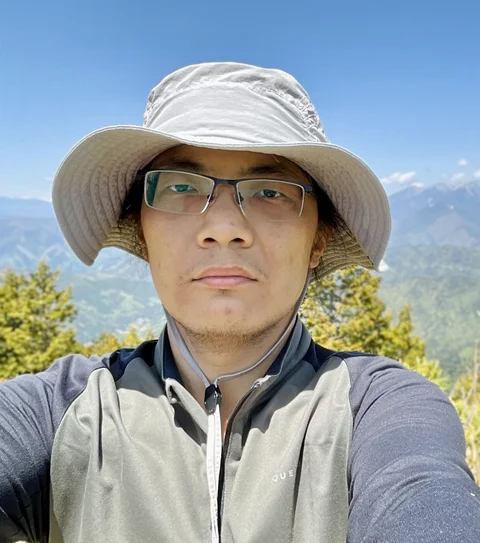
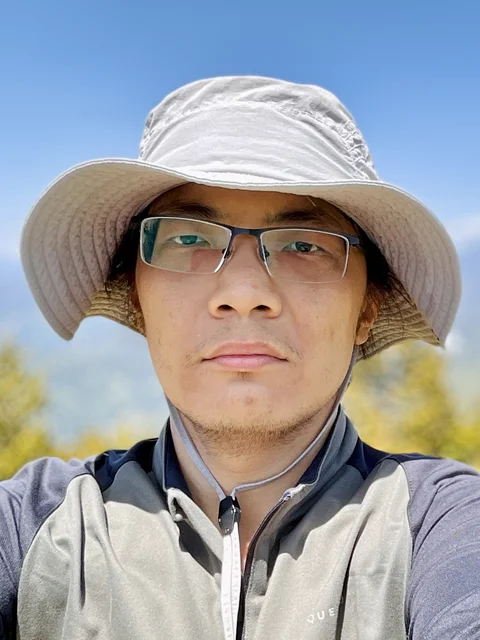
update profile photos

diff --git a/cv/index.html b/cv/index.html
@@ -590,11 +590,11 @@
         <ul class="subitems">
           
             <li>
-              <span class="subitem">𝖲𝖳𝖮𝖢 (2026x2, 2025, 2024, 2023), 𝖥𝖮𝖢𝖲 (2025, 2024, 2023, 2020), 𝖢𝖢𝖢(2024), 𝖲𝖮𝖣𝖠 (2025, 2024, 2022), 𝖨𝖳𝖢𝖲 (2026, 2024), 𝖨𝖢𝖠𝖫𝖯 (2024x2), 𝖤𝖲𝖠 (2024), 𝖢𝖮𝖫𝖳 (2025), 𝖲𝖳𝖠𝖢𝖲 (2026)</span>
+              <span class="subitem">𝖲𝖳𝖮𝖢 (2026x2, 2025, 2024, 2023), 𝖥𝖮𝖢𝖲 (2025, 2024, 2023, 2020), 𝖢𝖢𝖢(2026, 2024), 𝖲𝖮𝖣𝖠 (2025, 2024, 2022), 𝖨𝖳𝖢𝖲 (2026, 2024), 𝖨𝖢𝖠𝖫𝖯 (2026x2, 2024x2), 𝖤𝖲𝖠 (2024), 𝖢𝖮𝖫𝖳 (2025), 𝖲𝖳𝖠𝖢𝖲 (2026)</span>
             </li>
           
             <li>
-              <span class="subitem">𝖰𝖨𝖯 (2025x4, 2024x3, 2023, 2022x2, 2021), 𝖳𝖰𝖢 (2025x2, 2024, 2022, 2020x2), 𝖠𝖰𝖨𝖲 (2023).</span>
+              <span class="subitem">𝖰𝖨𝖯 (2025x4, 2024x3, 2023, 2022x2, 2021), 𝖳𝖰𝖢 (2026x2, 2025x2, 2024, 2022, 2020x2), 𝖠𝖰𝖨𝖲 (2023).</span>
             </li>
           
         </ul>
@@ -607,7 +607,7 @@
         <ul class="subitems">
           
             <li>
-              <span class="subitem">SIAM Journal on Computing x2, Nature Physics, Theory of Computing Systems, Quantum, ACM Transactions on Quantum Computing.</span>
+              <span class="subitem">SIAM Journal on Computing x3, Nature Physics, Theory of Computing Systems, Quantum x2, ACM Transactions on Quantum Computing.</span>
             </li>
           
         </ul>
@@ -692,7 +692,7 @@
 
   
   
-    Last updated: February 25, 2026.
+    Last updated: March 07, 2026.
   
 
     </div>

diff --git a/index.html b/index.html
@@ -319,7 +319,7 @@
       30vw, 95vw">
       
     
-    <img src="/assets/img/profile.jpg?f5e3f6e615ea72c639ac67d89f6102cf" class="img-fluid z-depth-1
+    <img src="/assets/img/profile.jpg?dc58a59c3282aca3f16d8bec1dd1f908" class="img-fluid z-depth-1
       rounded" width="100%" height="auto" alt="profile.jpg" loading="eager" onerror="this.onerror=null; $('.responsive-img-srcset').remove();">
   </source></picture>
 
@@ -390,7 +390,7 @@
 
   
   
-    Last updated: February 25, 2026.
+    Last updated: March 07, 2026.
   
 
     </div>

diff --git a/papers-by-pub-year/index.html b/papers-by-pub-year/index.html
@@ -1330,7 +1330,7 @@
 
   
   
-    Last updated: February 25, 2026.
+    Last updated: March 07, 2026.
   
 
     </div>

diff --git a/papers-by-release-year/index.html b/papers-by-release-year/index.html
@@ -1429,7 +1429,7 @@
 
   
   
-    Last updated: February 25, 2026.
+    Last updated: March 07, 2026.
   
 
     </div>

diff --git a/papers-by-topics/index.html b/papers-by-topics/index.html
@@ -1417,7 +1417,7 @@
 
   
   
-    Last updated: February 25, 2026.
+    Last updated: March 07, 2026.
   
 
     </div>

diff --git a/404.html b/404.html
@@ -305,7 +305,7 @@
 
   
   
-    Last updated: February 25, 2026.
+    Last updated: March 07, 2026.
   
 
     </div>

diff --git a/_pages/dropdown.html b/_pages/dropdown.html
@@ -305,7 +305,7 @@
 
   
   
-    Last updated: February 25, 2026.
+    Last updated: March 07, 2026.
   
 
     </div>

diff --git a/_pages/papers.html b/_pages/papers.html
@@ -307,7 +307,7 @@
 
   
   
-    Last updated: February 25, 2026.
+    Last updated: March 07, 2026.
   
 
     </div>

diff --git a/misc/index.html b/misc/index.html
@@ -338,7 +338,7 @@
 
   
   
-    Last updated: February 25, 2026.
+    Last updated: March 07, 2026.
   
 
     </div>

diff --git a/resources/index.html b/resources/index.html
@@ -347,7 +347,7 @@
 
   
   
-    Last updated: February 25, 2026.
+    Last updated: March 07, 2026.
   
 
     </div>

diff --git a/talks/index.html b/talks/index.html
@@ -394,7 +394,7 @@
 
   
   
-    Last updated: February 25, 2026.
+    Last updated: March 07, 2026.
   
 
     </div>
